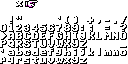
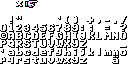
Working title screen

Changed region(s): [[0.875, 0.875, 0.9375, 1.0], [0.0, 0.5, 0.0625, 0.625], [0.1875, 0.0312, 0.2812, 0.0938]]

diff --git a/src/title.c b/src/title.c
@@ -2,6 +2,10 @@
 
 #include "graph.h"
 #include "err.h"
+#include "menu.h"
+#include "game.h"
+#include "core.h"
+#include "keyb.h"
 
 #include <stdio.h>
 #include <stdlib.h>
@@ -10,12 +14,31 @@
 static Bitmap* bmpLogo = NULL;
 static Bitmap* bmpFont = NULL;
 
+static Menu* menu;
+
 static bool bgDrawn;
+static i16 buttonPressed;
+static i8 titlePhase = -1;
+static i16 flickerTimer;
+
+
+static void menu_callback(i16 button) {
+
+    buttonPressed = button + 1;
+}
 
 
 bool init_title_screen_scene() {
 
+    const str TITLE_BUTTON_NAMES[] = {
+        "START GAME",
+        "QUIT GAME"
+    };
+
     bgDrawn = false;
+    buttonPressed = 0;
+    titlePhase = titlePhase < 0 ? 0 : 1;
+    flickerTimer = 29;
 
     if ((bmpFont = load_bitmap("ASSETS/FONT.BIN")) == NULL ||
         (bmpLogo = load_bitmap("ASSETS/TITLE.BIN")) == NULL) {
@@ -23,11 +46,46 @@ bool init_title_screen_scene() {
         return true;
     }
 
+    menu = new_menu(TITLE_BUTTON_NAMES, menu_callback, 2);
+    if (menu == NULL) {
+
+        return true;
+    }
+    menu_activate(menu, 0);
+
     return false;
 }
 
 
 bool title_screen_refresh(i16 step) {
+
+    if (titlePhase == 0) {
+
+        flickerTimer = (flickerTimer + step) % 60;
+        if (keyb_get_normal_key(KEY_RETURN) == STATE_PRESSED) {
+
+            titlePhase = 1;
+        }
+        return false;
+    }
+
+    if (buttonPressed != 0) {
+
+        if (buttonPressed == 2) {
+
+            return true;
+        }
+        else {
+
+            if (init_game_scene()) {
+
+                return true;
+            }
+            core_register_callbacks(game_refresh, game_redraw);
+        }
+    }
+
+    menu_update(menu, step);
 
     return false;
 }
@@ -38,9 +96,27 @@ void title_screen_redraw() {
     if (!bgDrawn) {
 
         clear_screen(2);
+
         draw_bitmap_fast(bmpLogo, 40 - bmpLogo->width/8, 16);
         draw_text(bmpFont, "A \"FINISHED PROTOTYPE\"",
             40, 104, -1, true);
+
+        draw_text(bmpFont, "@2021 Jani Nyk~nen",
+            40, 190, -1, true);
+
+        bgDrawn = true;
+    }
+
+    if (titlePhase == 0) {
+
+        if (flickerTimer < 30)
+            fill_rect(28, 144, 24, 8, 2);
+        else
+            draw_text(bmpFont, "PRESS ENTER", 40, 144, -1, true);
+    }
+    else {
+
+        menu_draw(menu, bmpFont, 40, 144);
     }
 }
 
@@ -49,4 +125,6 @@ void dispose_title_screen_scene() {
 
     dispose_bitmap(bmpLogo);
     dispose_bitmap(bmpFont);
+
+    dispose_menu(menu);
 }

diff --git a/src/main.c b/src/main.c
@@ -2,7 +2,7 @@
 #include "graph.h"
 #include "err.h"
 
-#include "game.h"
+#include "title.h"
 
 #include <stdio.h>
 
@@ -23,15 +23,15 @@ void main() {
 
     init_core();
 
-    if (init_game_scene()) {
+    if (init_title_screen_scene()) {
 
         print_errors();
         return;
     }
 
     core_register_callbacks(
-        game_refresh,
-        game_redraw);
+        title_screen_refresh,
+        title_screen_redraw);
 
     core_run(1);
 }

diff --git a/src/menu.c b/src/menu.c
@@ -40,7 +40,7 @@ Menu* new_menu(const str* buttonNames, MenuCallback buttonCb, u16 len) {
 
         if (strlen(buttonNames[i]) > m->width) {
 
-            m->width = (i16)strlen(buttonNames[i]);
+            m->width = (i16)strlen(buttonNames[i]) +1;
         }
     }
 
